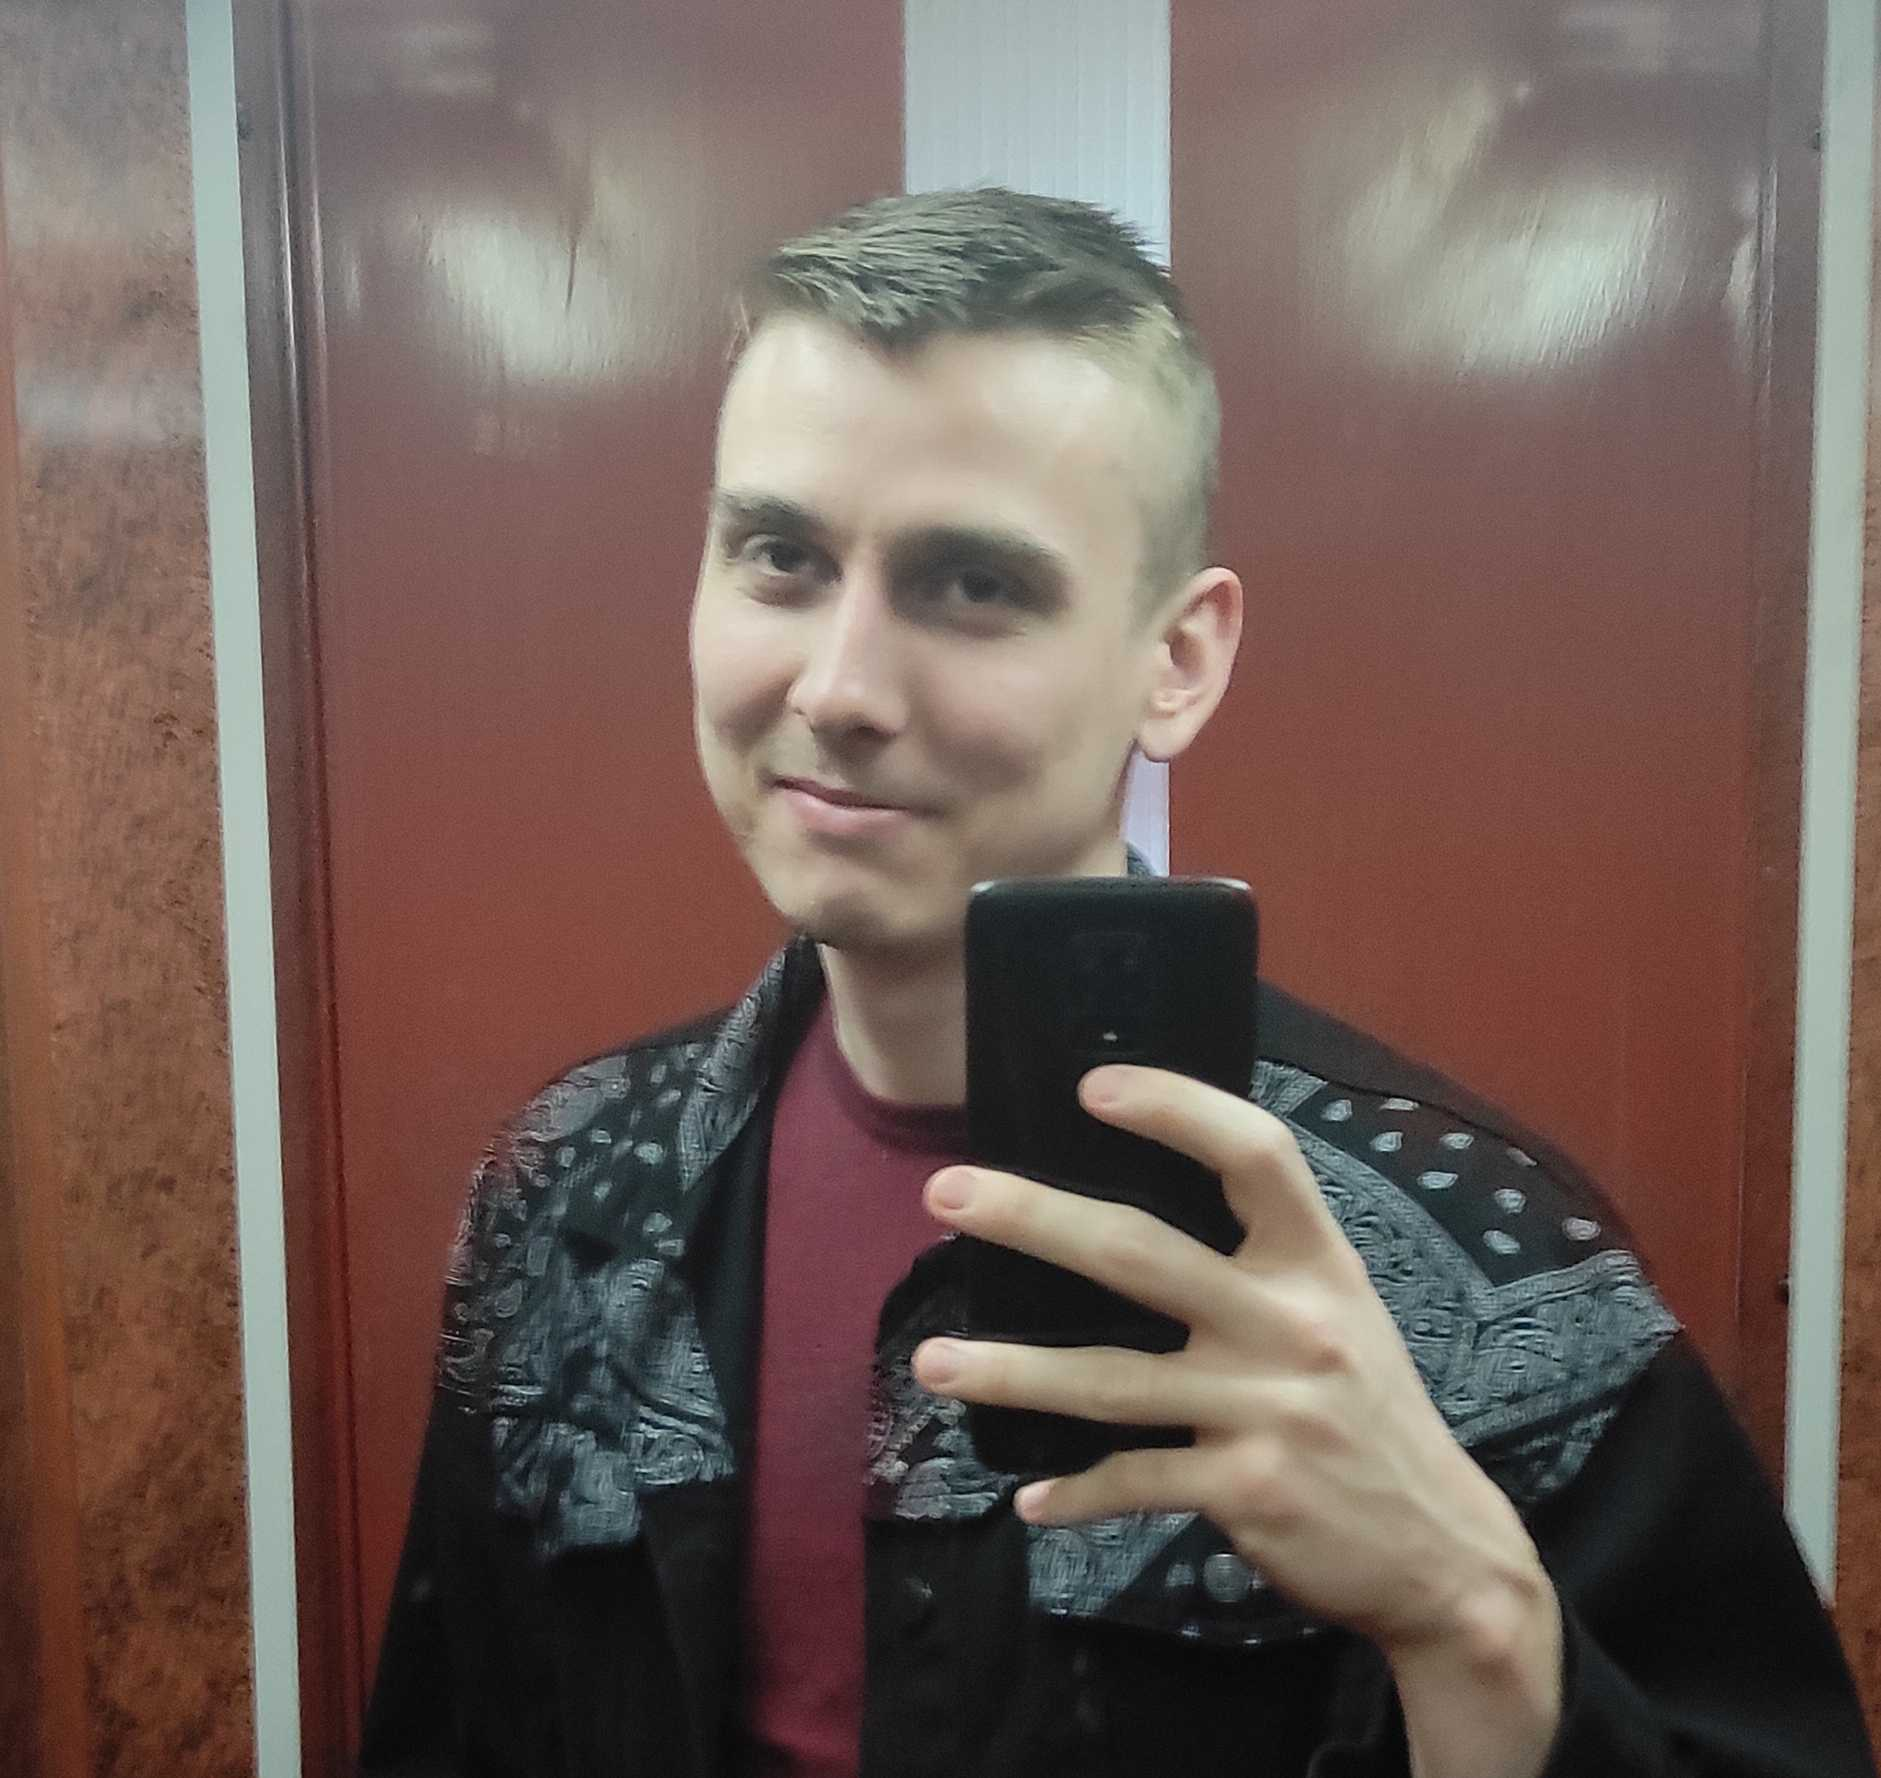
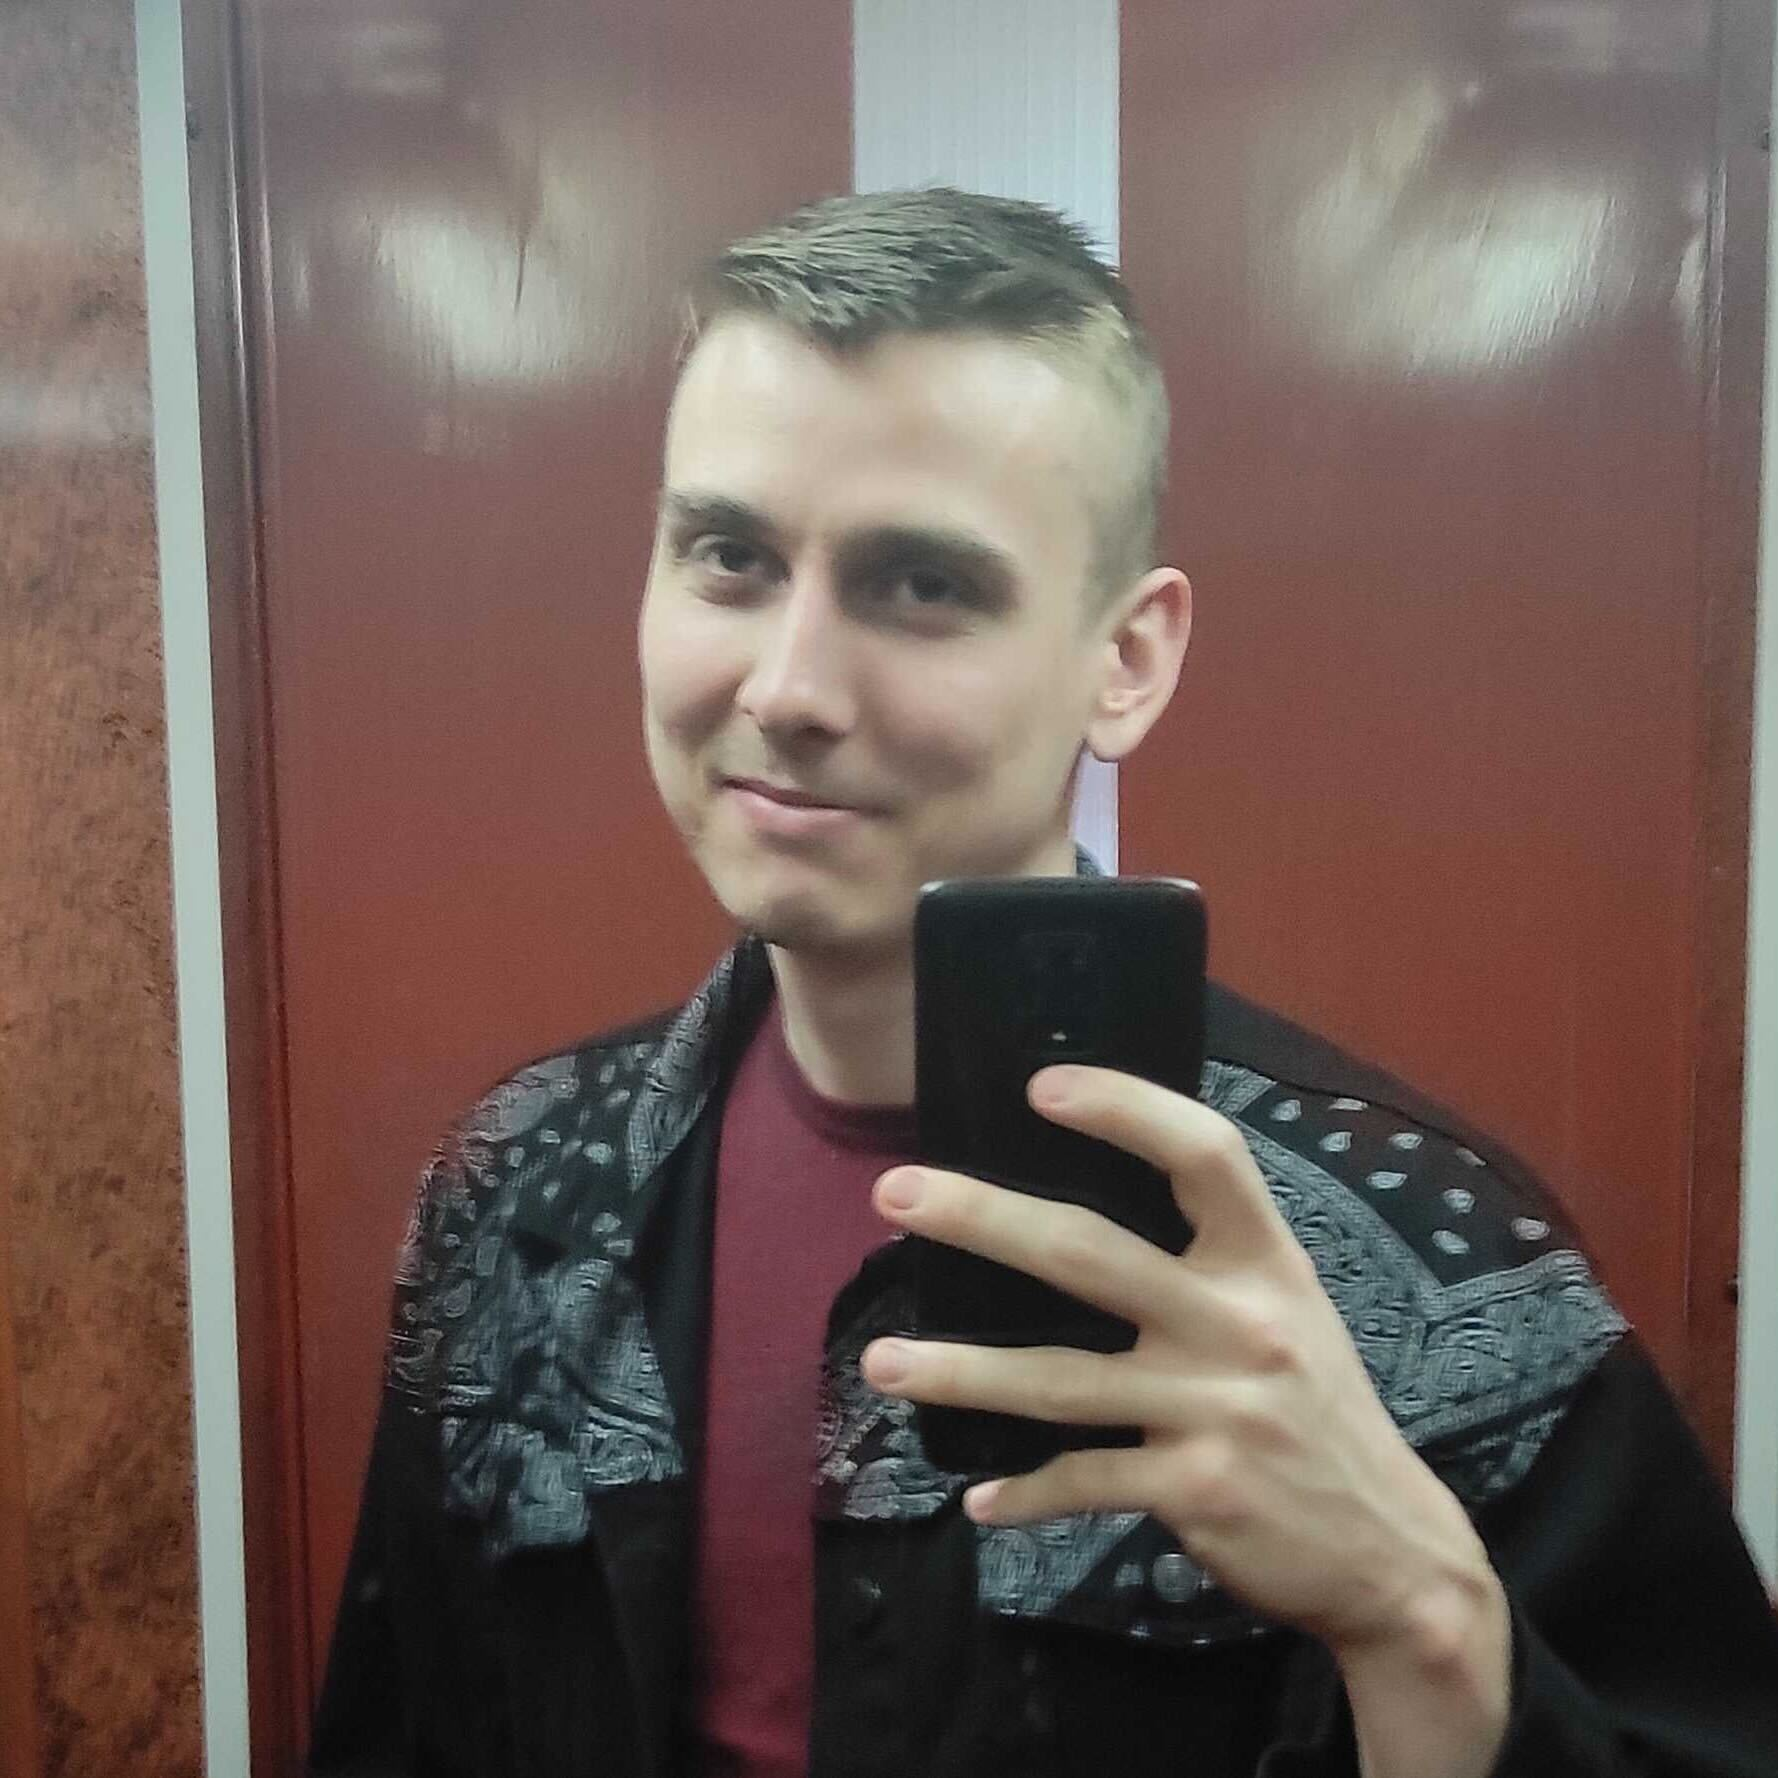
dodany js do modala, poprawiony rozmiar modala i fontu, zamieniono 2 zdjęcia

diff --git a/src/sass/layout/_team.scss b/src/sass/layout/_team.scss
@@ -15,6 +15,13 @@
   overflow: scroll;
 }
 
+.is-hidden {
+  visibility: hidden;
+  opacity: 0;
+  pointer-events: none;
+  scale: 0;
+}
+
 .team {
   position: absolute;
   background-color: #10181d;
@@ -23,15 +30,20 @@
   top: 50%;
   left: 50%;
   transform: translate(-50%, -50%);
-  width: 100%;
-  height: 100%;
+  width: 90%;
+  max-width: 400px;
+  height: 90%;
   padding: 40px;
   box-shadow: 4px 6px 10px 3px rgba(255, 255, 255, 0.3),
     4px 6px 10px 3px rgba(255, 255, 255, 0.3),
     4px 6px 10px 3px rgba(255, 255, 255, 0.3);
   @include tablet {
     width: 80%;
+    max-width: 750px;
   }
+    @include desktop {
+      max-width: 850px;
+    }
 }
 
 .team__top {
@@ -100,24 +112,23 @@
   border-radius: $border-radius;
 }
 
-.m__sor {
-  height: 72%;
-}
-
 .team__description {
   display: flex;
   color: $main-font-bright-color;
   flex-direction: column;
   align-items: center;
-  font-size: 25px;
+  font-size: 15px;
   gap: 5px;
   letter-spacing: 0.04em;
   border-radius: $border-radius;
   padding: 8px;
 
   @include tablet {
-    font-size: 20px;
+    font-size: 19px;
   }
+    @include desktop {
+      font-size: 18px;
+    }
 }
 
 .team__description-wrapper {

diff --git a/src/js/utils/modal-team.js b/src/js/utils/modal-team.js
@@ -1,0 +1,26 @@
+
+const linkModalTeam = document.querySelector('.footer__wrapper-link');
+const modalTeam = document.querySelector('.backdrop');
+const modalClose = document.querySelector('.modal__icon-close');
+
+linkModalTeam.addEventListener('click', (e) => {
+  e.preventDefault();
+  modalTeam.classList.remove('is-hidden');
+});
+
+modalTeam.addEventListener('click', (e) => {
+  if (
+    e.target.classList.contains('backdrop') ||
+    e.target.classList.contains('modal__icon-close')
+  ) {
+    modalTeam.classList.add('is-hidden');
+  }
+});
+
+const keyPress = (e) => {
+  if (e.key === 'Escape') {
+    modalTeam.classList.add('is-hidden');
+  }
+};
+
+modalTeam.addEventListener('keydown', keyPress);

diff --git a/src/index.js b/src/index.js
@@ -9,6 +9,7 @@ import { handleSubmit } from './js/utils/search-form-handler.js';
 
 //toggle modal fn
 import { onShowModal, toggleModal } from './js/utils/modal-movie-details.js';
+import { toggleModalTeam, onShowModalTeam } from './js/utils/modal-team.js';
 import { startLoader } from './js/utils/loader.js';
 import { setDarkOrNormalModeOnPageLoadFromLocalStorageState } from './js/utils/dark-mode-switch.js';
 import { showButtonOnScroll, scrollToTop } from './js/utils/scroll-to-top.js';

diff --git a/src/partials/team.html b/src/partials/team.html
@@ -1,4 +1,4 @@
-<div class="backdrop">
+<div class="backdrop is-hidden">
   <div class="team">
     <div class="team__top">
       <div class="team__top-wrapper">
@@ -218,7 +218,7 @@
 
       <li class="team__item">
         <img
-          class="team__image m__sor"
+          class="team__image"
           src="./images//team/team_maciej-sorko.jpeg"
           alt="portret Maciej Sorko"
           width="170"

diff --git a/src/partials/footer.html b/src/partials/footer.html
@@ -7,7 +7,7 @@
                 </use>
             </svg>
             by 
-            <a class = "footer__wrapper-link" href = "#">GoIT Students</a>
+            <a class = "footer__wrapper-link" href="#">GoIT Students</a>
         </div>
     </div>
 </footer>
